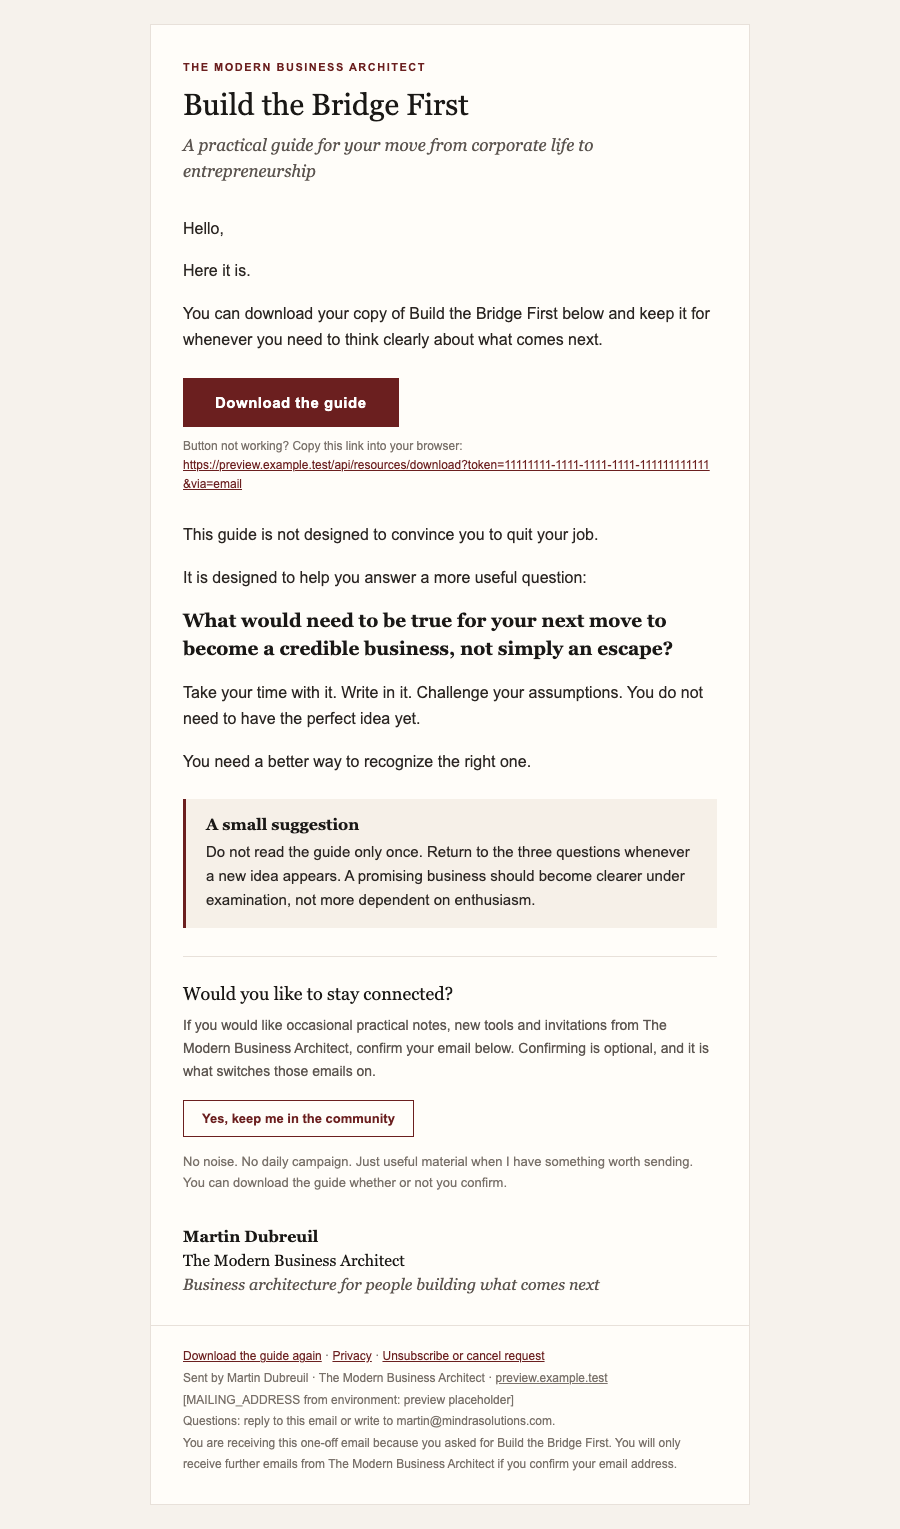
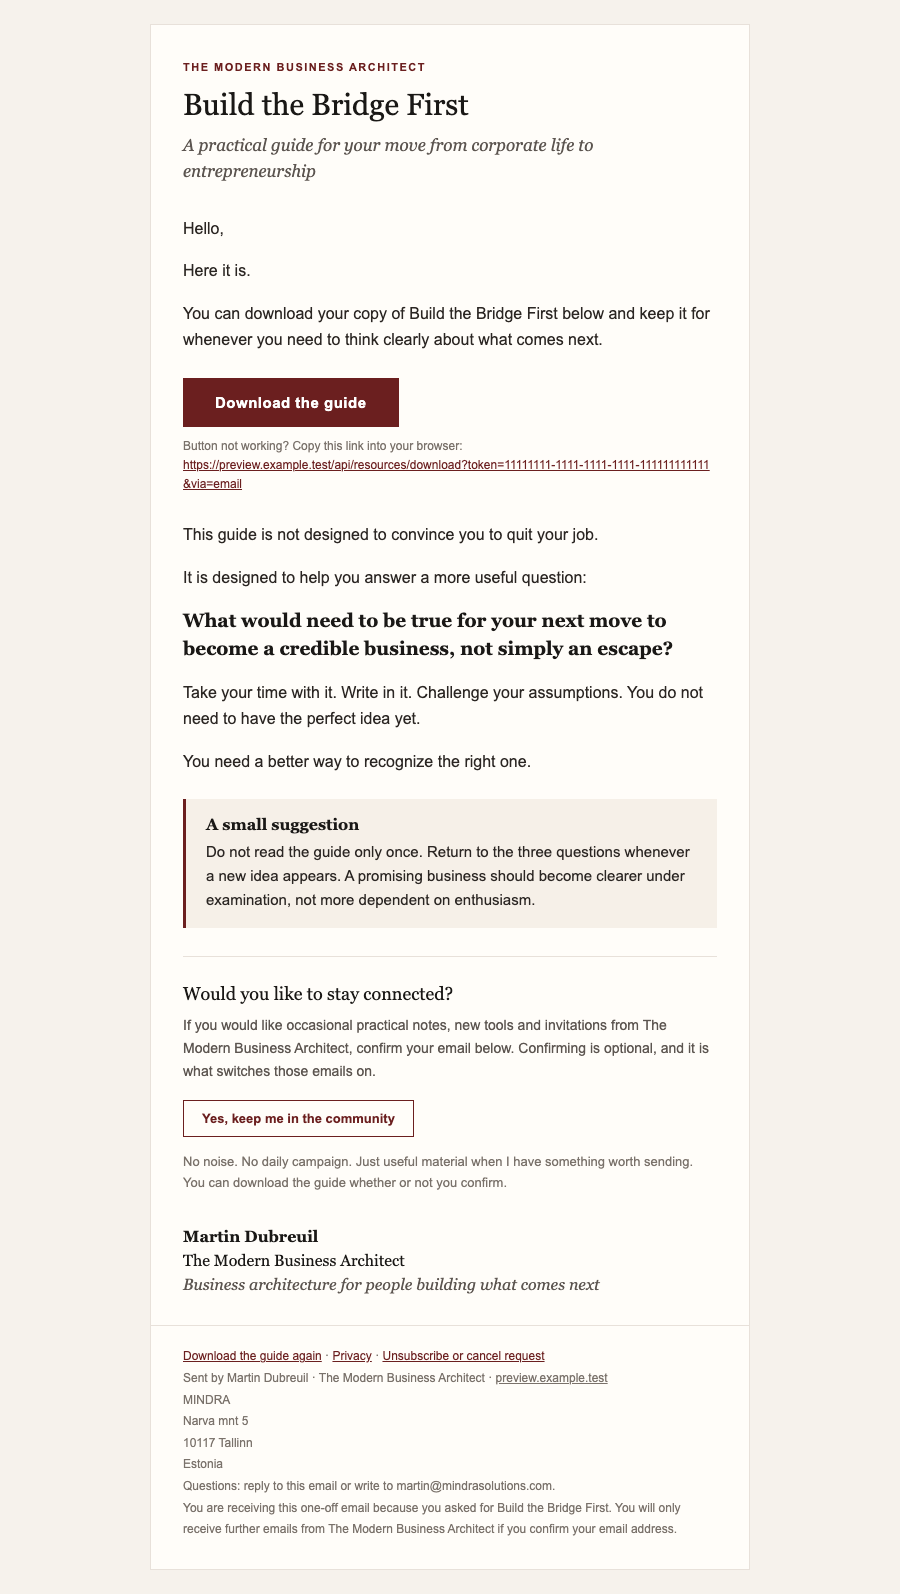
test(resources): update guide e2e assertions for the new delivery email; refresh previews

Changed region(s): [[0.1867, 0.0307, 0.7778, 0.9836], [0.7156, 0.707, 0.7467, 0.7685]]

diff --git a/docs/resource-lead-capture/email-previews/delivery-pending.html b/docs/resource-lead-capture/email-previews/delivery-pending.html
@@ -1,5 +1,5 @@
 <!doctype html>
-<html lang="en"><head><meta charset="utf-8"><meta name="viewport" content="width=device-width,initial-scale=1"><meta name="x-apple-disable-message-reformatting"><meta name="color-scheme" content="light"><title>Your guide: Build the Bridge First</title></head>
+<html lang="en"><head><meta charset="utf-8"><meta name="viewport" content="width=device-width,initial-scale=1"><meta name="x-apple-disable-message-reformatting"><meta name="color-scheme" content="light"><title>Your guide is ready: Build the Bridge First</title></head>
 <body style="margin:0;padding:0;background:#f6f2ec;">
 <div style="display:none;font-size:1px;line-height:1px;max-height:0;max-width:0;overflow:hidden;opacity:0;mso-hide:all;">A practical guide for deciding what to build before leaving what you know.&#847;&zwnj;&nbsp;&#847;&zwnj;&nbsp;&#847;&zwnj;&nbsp;&#847;&zwnj;&nbsp;&#847;&zwnj;&nbsp;</div>
 <table role="presentation" width="100%" cellpadding="0" cellspacing="0" border="0" style="background:#f6f2ec;"><tr><td align="center" style="padding:24px 12px;">
@@ -28,7 +28,7 @@
 <tr><td style="padding:8px 32px 8px;"><table role="presentation" width="100%" cellpadding="0" cellspacing="0" border="0"><tr><td style="border-top:1px solid #e8e1da;padding:24px 0 8px;">
 <p style="margin:0 0 8px;font-family:Georgia,'Times New Roman',Times,serif;font-size:18px;line-height:1.4;color:#1a1816;">Would you like to stay connected?</p>
 <p style="margin:0 0 16px;font-family:Arial,Helvetica,sans-serif;font-size:16px;line-height:1.65;color:#2b2623;font-size:14px;color:#5c5550;">If you would like occasional practical notes, new tools and invitations from The Modern Business Architect, confirm your email below. Confirming is optional, and it is what switches those emails on.</p>
-<p style="margin:0 0 14px;"><a href="https://preview.example.test/confirm?token=c1.lead-1.1793456603.UNoYN8R3ph1l-ix4Ywn0iKiz_sWNtgXH_JaYSzKcypI" style="display:inline-block;border:1px solid #6b1f1f;color:#6b1f1f;font-family:Arial,Helvetica,sans-serif;font-size:13px;font-weight:bold;text-decoration:none;padding:10px 18px;">Yes, keep me in the community</a></p>
+<p style="margin:0 0 14px;"><a href="https://preview.example.test/confirm?token=c1.lead-1.1793457821.gmVgZFNit9NnG3lKFl9YiAiaGTE3MwUvcF7869vlxHo" style="display:inline-block;border:1px solid #6b1f1f;color:#6b1f1f;font-family:Arial,Helvetica,sans-serif;font-size:13px;font-weight:bold;text-decoration:none;padding:10px 18px;">Yes, keep me in the community</a></p>
 <p style="margin:0 0 16px;font-family:Arial,Helvetica,sans-serif;font-size:16px;line-height:1.65;color:#2b2623;font-size:13px;color:#7a726b;margin:0;">No noise. No daily campaign. Just useful material when I have something worth sending. You can download the guide whether or not you confirm.</p>
 </td></tr></table></td></tr>
 <tr><td style="padding:16px 32px 28px;">
@@ -38,7 +38,7 @@
 <p style="margin:0;font-family:Arial,Helvetica,sans-serif;font-size:12px;line-height:1.8;color:#7a726b;">
 <a href="https://preview.example.test/api/resources/download?token=11111111-1111-1111-1111-111111111111&via=email" style="color:#6b1f1f;">Download the guide again</a> · <a href="https://preview.example.test/privacy" style="color:#6b1f1f;">Privacy</a> · <a href="https://preview.example.test/unsubscribe?token=v1.lead-1.FQJetEGRg8eV5VjaLMF1oiEXohXr66fLAdz7g5Z1tIo" style="color:#6b1f1f;">Unsubscribe or cancel request</a><br>
 Sent by Martin Dubreuil · The Modern Business Architect · <a href="https://preview.example.test" style="color:#7a726b;">preview.example.test</a><br>
-[MAILING_ADDRESS from environment: preview placeholder]<br>Questions: reply to this email or write to martin@mindrasolutions.com.<br>
+MINDRA<br>Narva mnt 5<br>10117 Tallinn<br>Estonia<br>Questions: reply to this email or write to martin@mindrasolutions.com.<br>
 You are receiving this one-off email because you asked for Build the Bridge First. You will only receive further emails from The Modern Business Architect if you confirm your email address.</p>
 </td></tr>
 </table></td></tr></table>

diff --git a/docs/resource-lead-capture/email-previews/delivery-none.html b/docs/resource-lead-capture/email-previews/delivery-none.html
@@ -1,5 +1,5 @@
 <!doctype html>
-<html lang="en"><head><meta charset="utf-8"><meta name="viewport" content="width=device-width,initial-scale=1"><meta name="x-apple-disable-message-reformatting"><meta name="color-scheme" content="light"><title>Your guide: Build the Bridge First</title></head>
+<html lang="en"><head><meta charset="utf-8"><meta name="viewport" content="width=device-width,initial-scale=1"><meta name="x-apple-disable-message-reformatting"><meta name="color-scheme" content="light"><title>Your guide is ready: Build the Bridge First</title></head>
 <body style="margin:0;padding:0;background:#f6f2ec;">
 <div style="display:none;font-size:1px;line-height:1px;max-height:0;max-width:0;overflow:hidden;opacity:0;mso-hide:all;">A practical guide for deciding what to build before leaving what you know.&#847;&zwnj;&nbsp;&#847;&zwnj;&nbsp;&#847;&zwnj;&nbsp;&#847;&zwnj;&nbsp;&#847;&zwnj;&nbsp;</div>
 <table role="presentation" width="100%" cellpadding="0" cellspacing="0" border="0" style="background:#f6f2ec;"><tr><td align="center" style="padding:24px 12px;">
@@ -33,7 +33,7 @@
 <p style="margin:0;font-family:Arial,Helvetica,sans-serif;font-size:12px;line-height:1.8;color:#7a726b;">
 <a href="https://preview.example.test/api/resources/download?token=11111111-1111-1111-1111-111111111111&via=email" style="color:#6b1f1f;">Download the guide again</a> · <a href="https://preview.example.test/privacy" style="color:#6b1f1f;">Privacy</a> · <a href="https://preview.example.test/unsubscribe?token=v1.lead-1.FQJetEGRg8eV5VjaLMF1oiEXohXr66fLAdz7g5Z1tIo" style="color:#6b1f1f;">Unsubscribe</a><br>
 Sent by Martin Dubreuil · The Modern Business Architect · <a href="https://preview.example.test" style="color:#7a726b;">preview.example.test</a><br>
-[MAILING_ADDRESS from environment: preview placeholder]<br>Questions: reply to this email or write to martin@mindrasolutions.com.<br>
+MINDRA<br>Narva mnt 5<br>10117 Tallinn<br>Estonia<br>Questions: reply to this email or write to martin@mindrasolutions.com.<br>
 You are receiving this one-off email because you asked for Build the Bridge First. No further marketing emails will be sent to this address.</p>
 </td></tr>
 </table></td></tr></table>

diff --git a/docs/resource-lead-capture/email-previews/delivery-active.html b/docs/resource-lead-capture/email-previews/delivery-active.html
@@ -1,5 +1,5 @@
 <!doctype html>
-<html lang="en"><head><meta charset="utf-8"><meta name="viewport" content="width=device-width,initial-scale=1"><meta name="x-apple-disable-message-reformatting"><meta name="color-scheme" content="light"><title>Your guide: Build the Bridge First</title></head>
+<html lang="en"><head><meta charset="utf-8"><meta name="viewport" content="width=device-width,initial-scale=1"><meta name="x-apple-disable-message-reformatting"><meta name="color-scheme" content="light"><title>Your guide is ready: Build the Bridge First</title></head>
 <body style="margin:0;padding:0;background:#f6f2ec;">
 <div style="display:none;font-size:1px;line-height:1px;max-height:0;max-width:0;overflow:hidden;opacity:0;mso-hide:all;">A practical guide for deciding what to build before leaving what you know.&#847;&zwnj;&nbsp;&#847;&zwnj;&nbsp;&#847;&zwnj;&nbsp;&#847;&zwnj;&nbsp;&#847;&zwnj;&nbsp;</div>
 <table role="presentation" width="100%" cellpadding="0" cellspacing="0" border="0" style="background:#f6f2ec;"><tr><td align="center" style="padding:24px 12px;">
@@ -33,7 +33,7 @@
 <p style="margin:0;font-family:Arial,Helvetica,sans-serif;font-size:12px;line-height:1.8;color:#7a726b;">
 <a href="https://preview.example.test/api/resources/download?token=11111111-1111-1111-1111-111111111111&via=email" style="color:#6b1f1f;">Download the guide again</a> · <a href="https://preview.example.test/privacy" style="color:#6b1f1f;">Privacy</a> · <a href="https://preview.example.test/unsubscribe?token=v1.lead-1.FQJetEGRg8eV5VjaLMF1oiEXohXr66fLAdz7g5Z1tIo" style="color:#6b1f1f;">Unsubscribe</a><br>
 Sent by Martin Dubreuil · The Modern Business Architect · <a href="https://preview.example.test" style="color:#7a726b;">preview.example.test</a><br>
-[MAILING_ADDRESS from environment: preview placeholder]<br>Questions: reply to this email or write to martin@mindrasolutions.com.<br>
+MINDRA<br>Narva mnt 5<br>10117 Tallinn<br>Estonia<br>Questions: reply to this email or write to martin@mindrasolutions.com.<br>
 You are receiving this because you asked for Build the Bridge First and are subscribed to emails from The Modern Business Architect.</p>
 </td></tr>
 </table></td></tr></table>

diff --git a/docs/resource-lead-capture/email-previews/README.md b/docs/resource-lead-capture/email-previews/README.md
@@ -1,0 +1,6 @@
+# Delivery email previews
+
+Rendered by `render.mjs` from `buildDeliveryEmail` (states: `pending` = confirmation offered, `active` = already
+subscribed, `none` = suppressed). Subject: "Your guide is ready: Build the Bridge First". The postal address comes from
+the `MAILING_ADDRESS` environment variable (multiline); these previews were rendered with the approved MINDRA address
+set in the environment at render time only. It is not in any template.
